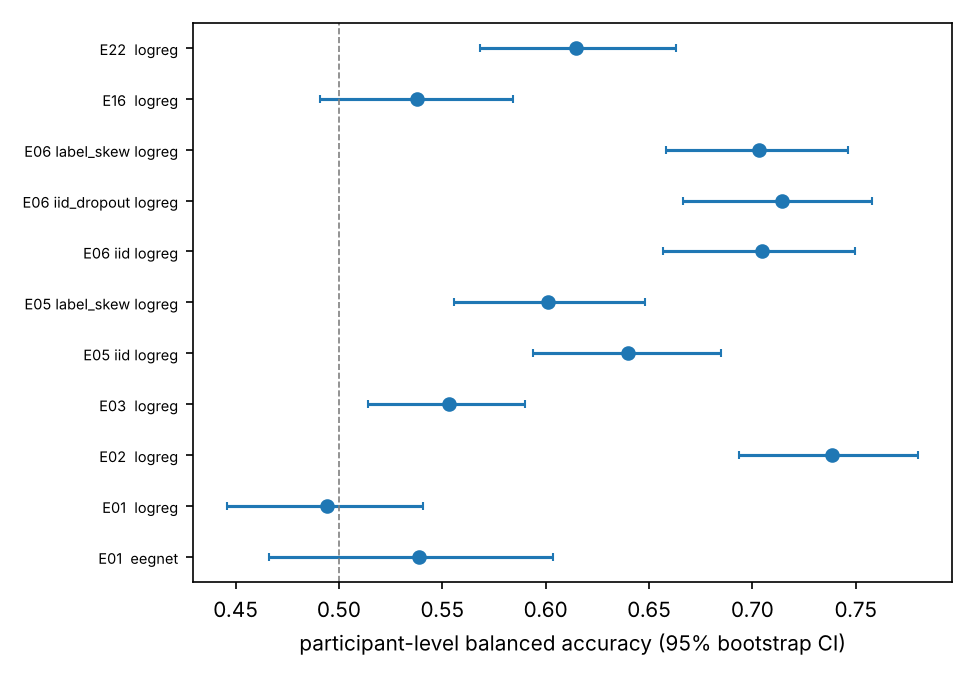
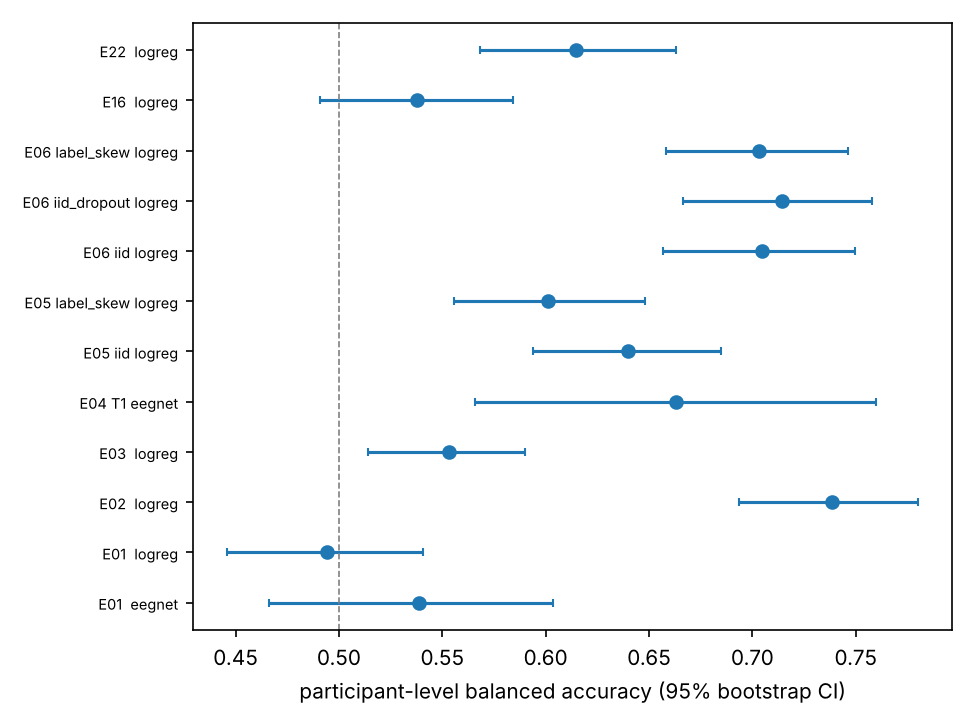
Real-data results: REPORT.md and figures from the first TDBRAIN pass
LR essentials E01-E06, E09, E10, E13, E16, E22 and E11 (LR) on TDBRAIN T1/T2;
EEGNet E01 and E04 on fold 0 only (preliminary). Auto-generated from MLflow.

diff --git a/REPORT.md b/REPORT.md
@@ -28,6 +28,7 @@ QC: 10/806 participants excluded (1.2%), epoch rejection 8.2%, 28 recordings wit
 | E01 | default | logreg | central | T1 | inf | 467 | 0.494 [0.446, 0.541] | 0.457 [0.402, 0.512] | 0.479 ± 0.046 | — |
 | E02 | default | logreg | central | T1 | inf | 467 | 0.738 [0.693, 0.780] | 0.768 [0.720, 0.814] | 0.737 ± 0.047 | — |
 | E03 | default | logreg | central | T2 | inf | 640 | 0.553 [0.514, 0.590] | 0.581 [0.536, 0.624] | 0.553 ± 0.016 | — |
+| E04 | T1 | eegnet | central | T1 | inf | 94 | 0.663 [0.566, 0.760] | 0.724 [0.611, 0.823] | 0.663 ± 0.000 | — |
 | E05 | iid | logreg | local | T1 | inf | 467 | 0.640 [0.594, 0.685] | 0.695 [0.643, 0.746] | 0.639 ± 0.032 | 0.620 |
 | E05 | label_skew | logreg | local | T1 | inf | 467 | 0.601 [0.555, 0.648] | 0.604 [0.550, 0.657] | 0.600 ± 0.037 | 0.592 |
 | E06 | iid | logreg | federated | T1 | inf | 467 | 0.705 [0.657, 0.750] | 0.766 [0.717, 0.811] | 0.692 ± 0.036 | — |
@@ -47,6 +48,8 @@ E01 (shuffled labels) must be ≈ 0.5. E12 is a DELIBERATELY WRONG segment-level
 
 | comparison | metric | A − B [95% CI] | n_participants |
 |---|---|---|---|
+| EEGNet - LR (central, T1) | balanced_accuracy | -0.008 [-0.113, 0.096] | 94 |
+| EEGNet - LR (central, T1) | auc | -0.013 [-0.114, 0.086] | 94 |
 | LR FedAvg IID - LR central | balanced_accuracy | -0.034 [-0.066, -0.005] | 467 |
 | LR FedAvg IID - LR central | auc | -0.002 [-0.022, 0.018] | 467 |
 | LR FedAvg label-skew - IID | balanced_accuracy | -0.002 [-0.037, 0.032] | 467 |
@@ -70,9 +73,9 @@ Threat model: an honest-but-curious server, or anyone with query access to the r
 
 | model | eps | n_participants | BA [95% CI] | AUC [95% CI] | achieved participant ε (mean) | epoch-level ε (reference only) |
 |---|---|---|---|---|---|---|
-| logreg | 1 | 467 | 0.610 [0.562, 0.658] | 0.641 [0.584, 0.693] | 1.000 | 1.000 |
-| logreg | 3 | 467 | 0.604 [0.560, 0.652] | 0.639 [0.583, 0.693] | 2.999 | 2.999 |
-| logreg | 8 | 467 | 0.629 [0.583, 0.676] | 0.688 [0.637, 0.737] | 7.995 | 7.995 |
+| logreg | 1 | 467 | 0.610 [0.562, 0.658] | 0.641 [0.584, 0.693] | 1.000 | — |
+| logreg | 3 | 467 | 0.604 [0.560, 0.652] | 0.639 [0.583, 0.693] | 2.999 | — |
+| logreg | 8 | 467 | 0.629 [0.583, 0.676] | 0.688 [0.637, 0.737] | 7.995 | — |
 | logreg | inf | 467 | 0.716 [0.671, 0.758] | 0.767 [0.718, 0.814] | — | — |
 
 
@@ -88,6 +91,15 @@ Threat model: an honest-but-curious server, or anyone with query access to the r
 
 ## 4. External test (TDBRAIN → Mumtaz, frozen models, evaluated once)
 
+| source | balanced_accuracy [95% CI] | auc [95% CI] | sensitivity [95% CI] | specificity [95% CI] | n |
+|---|---|---|---|---|---|
+| LR-central | 0.679 [0.589, 0.768] | 0.549 [0.382, 0.707] | 1.000 [1.000, 1.000] | 0.357 [0.179, 0.536] | 58 |
+| LR-FedAvg | 0.645 [0.542, 0.751] | 0.536 [0.365, 0.696] | 0.933 [0.833, 1.000] | 0.357 [0.179, 0.536] | 58 |
+| LR-FedAvg-DP-eps8 | 0.593 [0.489, 0.698] | 0.660 [0.517, 0.789] | 0.900 [0.800, 1.000] | 0.286 [0.143, 0.464] | 58 |
+
+
+E13 dataset-identity probe (TDBRAIN-HC vs Mumtaz-HC): AUC 0.966 [0.935, 0.990]. A high AUC means the datasets are separable from band power alone, so pooled training risks shortcut learning.
+
 ## 5. Limitations
 
 - Age differs between classes (see the cohort table); E22 shows how far age alone separates them, and band-power features are age-dependent, so part of the T1 signal may be age.
@@ -100,4 +112,4 @@ Threat model: an honest-but-curious server, or anyone with query access to the r
 
 ## 6. Reproducibility
 
[2 lines of base64/hex data omitted]
